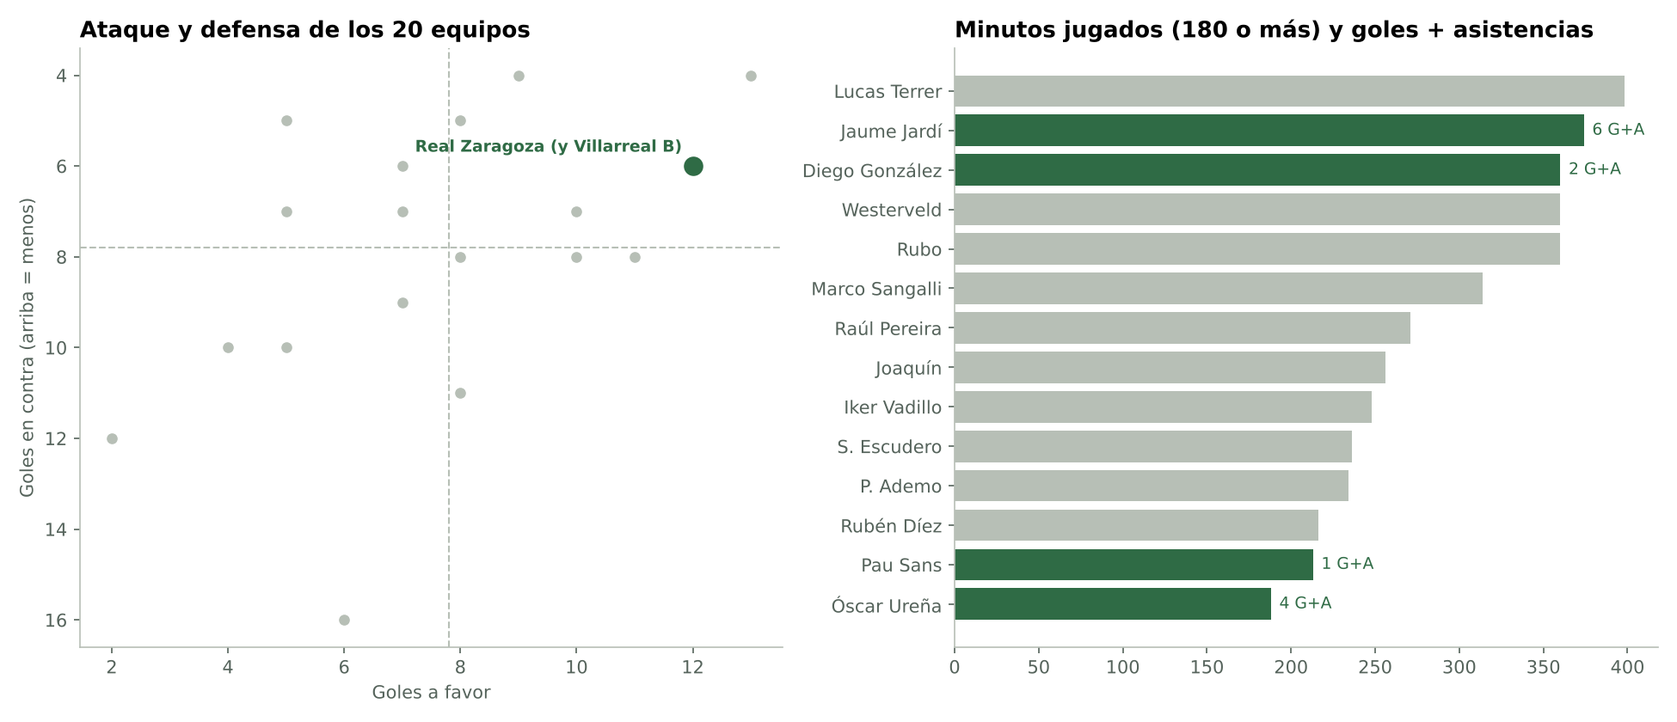
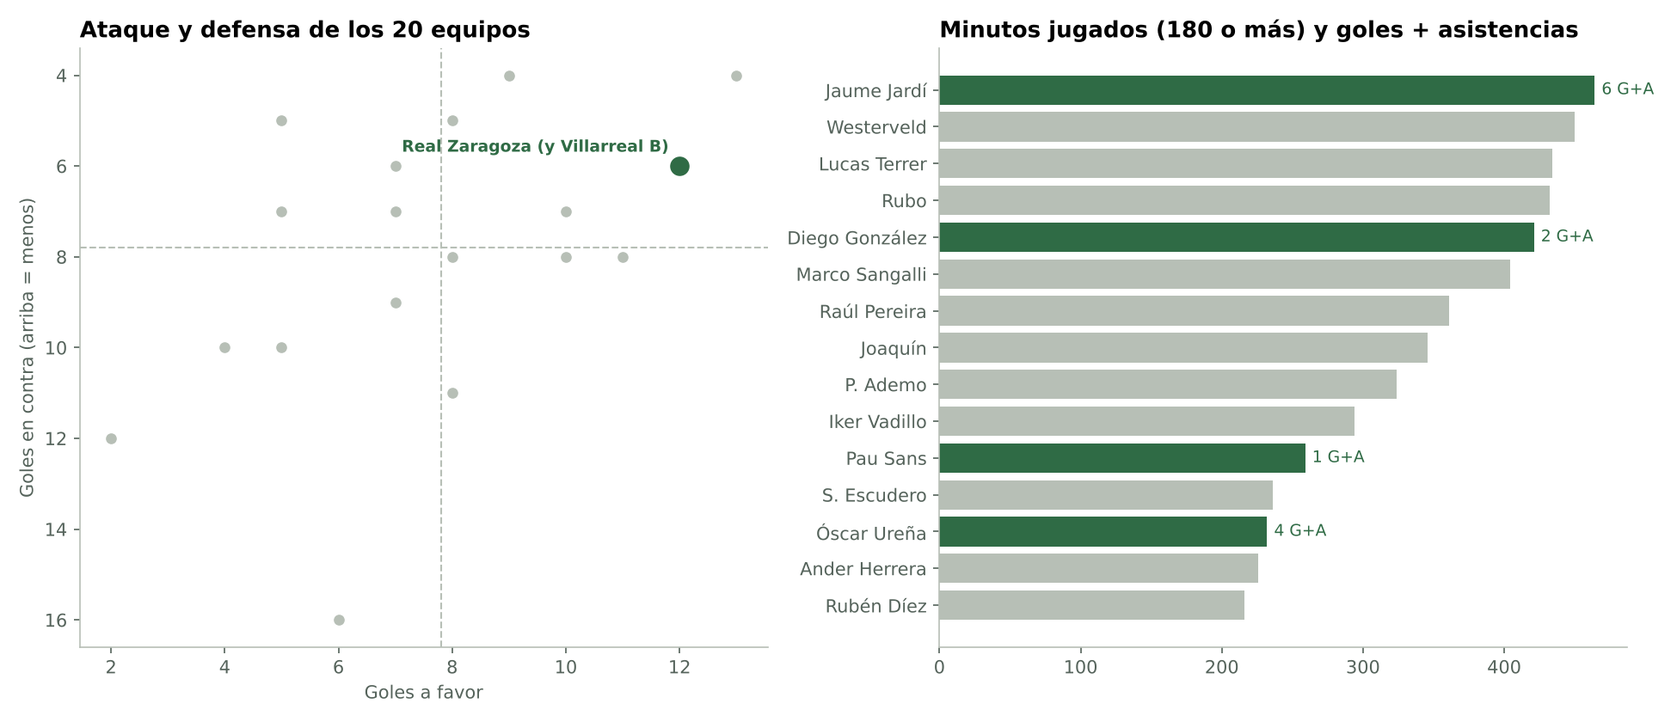
Añade la alineación de la jornada 3 (Torremolinos)

diff --git a/proyectos/real-zaragoza/informe-completo.html b/proyectos/real-zaragoza/informe-completo.html
@@ -52,7 +52,7 @@
 
 <p><strong>Más goles después del descanso.</strong> Nueve de los doce goles a favor llegan en la segunda parte, lo que encaja con lo anterior.</p>
 
-<p><strong>Jardí y Ureña.</strong> Jaume Jardí participa en seis de los doce goles (tres goles y tres asistencias). Óscar Ureña suma tres goles y una asistencia en 188 minutos con alineación conocida: una participación cada 47 minutos, la mejor relación de la plantilla.</p>
+<p><strong>Jardí y Ureña.</strong> Jaume Jardí participa en seis de los doce goles (tres goles y tres asistencias). Óscar Ureña suma tres goles y una asistencia en 232 minutos: una participación cada 58 minutos, la mejor relación de la plantilla.</p>
 
 <p><strong>Tira mucho más que sus rivales.</strong> 110 tiros frente a 47 en los seis partidos, el 70 % del total. El caso más claro es Tarragona: 33 tiros contra 10 y un 75 % de posesión, y aun así perdió 2-0.</p>
 
@@ -84,8 +84,8 @@
     <div class="tarjeta tabla"><table><thead><tr><th>J</th><th>Rival</th><th>Min.</th><th>Goleador</th><th>Asistencia</th><th>Rol</th><th>Penalti</th><th>P. p.</th></tr></thead><tbody><tr><td>2</td><td>Antequera CF</td><td>90+1</td><td>Edu Espiau</td><td>—</td><td>Suplente</td><td>—</td><td>—</td></tr><tr><td>3</td><td>Juventud Torremolinos CF</td><td>35</td><td>Javi Cuenca</td><td>—</td><td>—</td><td>—</td><td>Sí</td></tr><tr><td>3</td><td>Juventud Torremolinos CF</td><td>38</td><td>Diego González</td><td>Jaume Jardí</td><td>Titular</td><td>—</td><td>—</td></tr><tr><td>3</td><td>Juventud Torremolinos CF</td><td>65</td><td>Jaume Jardí</td><td>—</td><td>Titular</td><td>—</td><td>—</td></tr><tr><td>3</td><td>Juventud Torremolinos CF</td><td>81</td><td>Yussif Saidu</td><td>Jaume Jardí</td><td>Suplente</td><td>—</td><td>—</td></tr><tr><td>4</td><td>FC Cartagena</td><td>51</td><td>Jaume Jardí</td><td>Óscar Ureña</td><td>Titular</td><td>—</td><td>—</td></tr><tr><td>5</td><td>UD Ibiza</td><td>59</td><td>Óscar Ureña</td><td>Edu Espiau</td><td>Suplente</td><td>—</td><td>—</td></tr><tr><td>5</td><td>UD Ibiza</td><td>62</td><td>Óscar Ureña</td><td>—</td><td>Suplente</td><td>—</td><td>—</td></tr><tr><td>6</td><td>CD Teruel</td><td>45+7</td><td>Óscar Ureña</td><td>—</td><td>Titular</td><td>—</td><td>—</td></tr><tr><td>6</td><td>CD Teruel</td><td>47</td><td>Edu Espiau</td><td>Diego González</td><td>Titular</td><td>—</td><td>—</td></tr><tr><td>6</td><td>CD Teruel</td><td>77</td><td>Pau Sans</td><td>Jaume Jardí</td><td>Suplente</td><td>—</td><td>—</td></tr><tr><td>6</td><td>CD Teruel</td><td>85</td><td>Jaume Jardí</td><td>Hugo Pinilla</td><td>Titular</td><td>—</td><td>—</td></tr></tbody></table></div>
     <p class="nota">«Suplente» quiere decir que el goleador había entrado desde el banquillo. Las asistencias son las que recoge futboltotal, que no las apunta todas.</p>
     <h2>Minutos de la plantilla</h2>
-    <div class="tarjeta tabla"><table><thead><tr><th>Jugador</th><th class="n">PJ</th><th class="n">Titular</th><th class="n">Minutos</th><th class="n">Goles</th><th class="n">Asist.</th><th class="n">G+A por 90</th></tr></thead><tbody><tr><td>Lucas Terrer</td><td class="n">5</td><td class="n">5</td><td class="n">398</td><td class="n">0</td><td class="n">0</td><td class="n">0</td></tr><tr><td>Jaume Jardí</td><td class="n">5</td><td class="n">4</td><td class="n">374</td><td class="n">3</td><td class="n">3</td><td class="n">0,72</td></tr><tr><td>Diego González</td><td class="n">4</td><td class="n">4</td><td class="n">360</td><td class="n">1</td><td class="n">1</td><td class="n">0,25</td></tr><tr><td>Rubo</td><td class="n">4</td><td class="n">4</td><td class="n">360</td><td class="n">0</td><td class="n">0</td><td class="n">0</td></tr><tr><td>Westerveld</td><td class="n">4</td><td class="n">4</td><td class="n">360</td><td class="n">0</td><td class="n">0</td><td class="n">0</td></tr><tr><td>Marco Sangalli</td><td class="n">4</td><td class="n">3</td><td class="n">314</td><td class="n">0</td><td class="n">0</td><td class="n">0</td></tr><tr><td>Raúl Pereira</td><td class="n">5</td><td class="n">2</td><td class="n">271</td><td class="n">0</td><td class="n">0</td><td class="n">0</td></tr><tr><td>Joaquín</td><td class="n">4</td><td class="n">2</td><td class="n">256</td><td class="n">0</td><td class="n">0</td><td class="n">0</td></tr><tr><td>Iker Vadillo</td><td class="n">4</td><td class="n">3</td><td class="n">248</td><td class="n">0</td><td class="n">0</td><td class="n">0</td></tr><tr><td>S. Escudero</td><td class="n">5</td><td class="n">4</td><td class="n">236</td><td class="n">0</td><td class="n">0</td><td class="n">0</td></tr><tr><td>P. Ademo</td><td class="n">4</td><td class="n">3</td><td class="n">234</td><td class="n">0</td><td class="n">0</td><td class="n">0</td></tr><tr><td>Rubén Díez</td><td class="n">4</td><td class="n">3</td><td class="n">216</td><td class="n">0</td><td class="n">0</td><td class="n">0</td></tr><tr><td>Pau Sans</td><td class="n">4</td><td class="n">2</td><td class="n">213</td><td class="n">1</td><td class="n">0</td><td class="n">0,42</td></tr><tr><td>Óscar Ureña</td><td class="n">4</td><td class="n">2</td><td class="n">188</td><td class="n">3</td><td class="n">1</td><td class="n">1,91</td></tr></tbody></table></div>
-    <p class="nota">Jugadores con 180 minutos o más. Los minutos no incluyen los partidos sin alineación publicada; los goles y asistencias son de toda la liga.</p>
+    <div class="tarjeta tabla"><table><thead><tr><th>Jugador</th><th class="n">PJ</th><th class="n">Titular</th><th class="n">Minutos</th><th class="n">Goles</th><th class="n">Asist.</th><th class="n">G+A por 90</th></tr></thead><tbody><tr><td>Jaume Jardí</td><td class="n">6</td><td class="n">5</td><td class="n">464</td><td class="n">3</td><td class="n">3</td><td class="n">1,16</td></tr><tr><td>Westerveld</td><td class="n">5</td><td class="n">5</td><td class="n">450</td><td class="n">0</td><td class="n">0</td><td class="n">0</td></tr><tr><td>Lucas Terrer</td><td class="n">6</td><td class="n">5</td><td class="n">434</td><td class="n">0</td><td class="n">0</td><td class="n">0</td></tr><tr><td>Rubo</td><td class="n">5</td><td class="n">5</td><td class="n">432</td><td class="n">0</td><td class="n">0</td><td class="n">0</td></tr><tr><td>Diego González</td><td class="n">5</td><td class="n">5</td><td class="n">421</td><td class="n">1</td><td class="n">1</td><td class="n">0,43</td></tr><tr><td>Marco Sangalli</td><td class="n">5</td><td class="n">4</td><td class="n">404</td><td class="n">0</td><td class="n">0</td><td class="n">0</td></tr><tr><td>Raúl Pereira</td><td class="n">6</td><td class="n">3</td><td class="n">361</td><td class="n">0</td><td class="n">0</td><td class="n">0</td></tr><tr><td>Joaquín</td><td class="n">5</td><td class="n">3</td><td class="n">346</td><td class="n">0</td><td class="n">0</td><td class="n">0</td></tr><tr><td>P. Ademo</td><td class="n">5</td><td class="n">4</td><td class="n">324</td><td class="n">0</td><td class="n">0</td><td class="n">0</td></tr><tr><td>Iker Vadillo</td><td class="n">5</td><td class="n">4</td><td class="n">294</td><td class="n">0</td><td class="n">0</td><td class="n">0</td></tr><tr><td>Pau Sans</td><td class="n">5</td><td class="n">3</td><td class="n">259</td><td class="n">1</td><td class="n">0</td><td class="n">0,35</td></tr><tr><td>S. Escudero</td><td class="n">5</td><td class="n">4</td><td class="n">236</td><td class="n">0</td><td class="n">0</td><td class="n">0</td></tr><tr><td>Óscar Ureña</td><td class="n">5</td><td class="n">2</td><td class="n">232</td><td class="n">3</td><td class="n">1</td><td class="n">1,55</td></tr><tr><td>Ander Herrera</td><td class="n">3</td><td class="n">3</td><td class="n">226</td><td class="n">0</td><td class="n">0</td><td class="n">0</td></tr><tr><td>Rubén Díez</td><td class="n">4</td><td class="n">3</td><td class="n">216</td><td class="n">0</td><td class="n">0</td><td class="n">0</td></tr></tbody></table></div>
+    <p class="nota">Jugadores con 180 minutos o más. Los minutos no cuentan el descuento: un titular que juega todo el partido suma 90.</p>
     <h2>Casa y fuera</h2>
     <div class="tarjeta tabla"><table><thead><tr><th>Sede</th><th class="n">PJ</th><th class="n">Puntos</th><th class="n">GF</th><th class="n">GC</th><th class="n">Porterías a cero</th><th class="n">Puntos por partido</th></tr></thead><tbody><tr><td>Casa</td><td class="n">3</td><td class="n">9</td><td class="n">6</td><td class="n">1</td><td class="n">2</td><td class="n">3</td></tr><tr><td>Fuera</td><td class="n">3</td><td class="n">6</td><td class="n">6</td><td class="n">5</td><td class="n">1</td><td class="n">2</td></tr></tbody></table></div>
     <h2>Clasificación tras la jornada 6</h2>
@@ -96,7 +96,7 @@
     <p class="etiqueta">Calidad de los datos</p>
     <h2>Incidencias y decisiones</h2>
     <p class="lectura">Cuando dos fuentes no coinciden, lo apunto aquí junto con el dato que me quedo. Un dato que no encuentro queda vacío: nunca lo convierto en un cero.</p>
-    <div class="tarjeta tabla"><table><thead><tr><th>Partido</th><th>Dato</th><th>Problema</th><th>Qué hago</th></tr></thead><tbody><tr><td>General</td><td>Cobertura</td><td>No hay datos públicos fiables de coordenadas, tracking, distancias, velocidades ni PPDA</td><td>No se estiman ni se rellenan</td></tr><tr><td>General</td><td>Nombres</td><td>Cada fuente escribe los nombres a su manera: iniciales, apodos («Jamelli» es Rubén Díez y «J. Delgado» es Joaquín)</td><td>Uso siempre el nombre de la web del club</td></tr><tr><td>General</td><td>Asistencias</td><td>Solo futboltotal las recoge y faltan en las jornadas 1 y 2 y en algún gol suelto</td><td>Las trato como un mínimo, no como el total real</td></tr><tr><td>General</td><td>Agregados FootyStats</td><td>Sus tablas y su texto no coinciden en tiros ni en xG</td><td>No los uso</td></tr><tr><td>J1</td><td>Minuto gol Carlos Segura</td><td>87 en FotMob; 86 en futboltotal y FootyStats</td><td>Dejo el 87; no cambia el tramo</td></tr><tr><td>J1</td><td>Tiros</td><td>El club da 33 tiros, pero 9 a puerta y 16 fuera suman 25 y no publica los bloqueados</td><td>Uso el total con aviso y no calculo la precisión de tiro de ese partido</td></tr><tr><td>J1</td><td>Minutos de los cambios</td><td>Club 55/71/82; futboltotal 56/72/82-83</td><td>Uso los minutos del club</td></tr><tr><td>J2</td><td>Fecha</td><td>La URL de futboltotal dice 06/09 y la ficha dice 5/09 a las 21:00</td><td>Dejo el 5/09 (FotMob y la propia ficha)</td></tr><tr><td>J2</td><td>Pases</td><td>BeSoccer 510/256 y 452/181 completados; web del club 510/257 y 453/183</td><td>Cada cálculo sale de una sola fuente</td></tr><tr><td>J2</td><td>Paradas</td><td>Una parada con dos tiros a puerta del rival y ningún gol encajado</td><td>No uso las paradas</td></tr><tr><td>J2</td><td>Penalti fallado</td><td>El Antequera falla un penalti en el 71 (futboltotal)</td><td>Lo anoto como contexto</td></tr><tr><td>J3</td><td>Alineación</td><td>No he encontrado la alineación de Torremolinos en ninguna fuente fiable</td><td>La jornada 3 no entra en los minutos</td></tr><tr><td>J3</td><td>Minuto gol en propia puerta</td><td>35 en FotMob y en el club; 36 en FootyStats</td><td>Dejo el 35</td></tr><tr><td>J3</td><td>Tiros</td><td>El club da 16 tiros, pero 7 a puerta y 3 fuera no llegan al total</td><td>No deduzco los bloqueados</td></tr><tr><td>J4</td><td>Estadísticas avanzadas</td><td>AupaZaragoza pone 1-0 al descanso con el gol en el 51, y no dice qué modelo de xG usa</td><td>Las guardo aparte y no saco conclusiones del xG</td></tr><tr><td>J4</td><td>Expulsión rival</td><td>49 en AupaZaragoza; 50 en FotMob</td><td>No relaciono la expulsión con el gol del 51</td></tr><tr><td>J5</td><td>Fecha</td><td>La URL de futboltotal dice 27/09 y la ficha dice 25/09</td><td>Dejo el 25/09 (FotMob y la propia ficha)</td></tr><tr><td>J5</td><td>Minuto primer gol</td><td>58 en futboltotal; 58 o 59 en BeSoccer; 59 en FotMob</td><td>Dejo el 59</td></tr><tr><td>J5</td><td>Alineación</td><td>La web del club no publica la ficha; uso BeSoccer, que cuadra con los cambios de futboltotal</td><td>La doy por buena con dos fuentes coherentes</td></tr><tr><td>J6</td><td>Minuto gol Ureña</td><td>La ficha del club pone 52; FotMob, futboltotal y el 1-1 al descanso dicen 45+7</td><td>Dejo el 45+7</td></tr><tr><td>J6</td><td>Tiros a puerta</td><td>BeSoccer 7 (cuadra: 7 + 9 fuera + 1 bloqueado = 17); club 9</td><td>Uso BeSoccer</td></tr><tr><td>J6</td><td>Paradas</td><td>1 y 5 no cuadran con los tiros a puerta (7 y 3) ni con el 4-1</td><td>No uso las paradas</td></tr><tr><td>J6</td><td>Minuto gol Pau Sans</td><td>77 en FotMob; 76 en la crónica de radio</td><td>Dejo el 77</td></tr></tbody></table></div>
+    <div class="tarjeta tabla"><table><thead><tr><th>Partido</th><th>Dato</th><th>Problema</th><th>Qué hago</th></tr></thead><tbody><tr><td>General</td><td>Cobertura</td><td>No hay datos públicos fiables de coordenadas, tracking, distancias, velocidades ni PPDA</td><td>No se estiman ni se rellenan</td></tr><tr><td>General</td><td>Nombres</td><td>Cada fuente escribe los nombres a su manera: iniciales, apodos («Jamelli» es Rubén Díez y «J. Delgado» es Joaquín)</td><td>Uso siempre el nombre de la web del club</td></tr><tr><td>General</td><td>Asistencias</td><td>Solo futboltotal las recoge y faltan en las jornadas 1 y 2 y en algún gol suelto</td><td>Las trato como un mínimo, no como el total real</td></tr><tr><td>General</td><td>Agregados FootyStats</td><td>Sus tablas y su texto no coinciden en tiros ni en xG</td><td>No los uso</td></tr><tr><td>J1</td><td>Minuto gol Carlos Segura</td><td>87 en FotMob; 86 en futboltotal y FootyStats</td><td>Dejo el 87; no cambia el tramo</td></tr><tr><td>J1</td><td>Tiros</td><td>El club da 33 tiros, pero 9 a puerta y 16 fuera suman 25 y no publica los bloqueados</td><td>Uso el total con aviso y no calculo la precisión de tiro de ese partido</td></tr><tr><td>J1</td><td>Minutos de los cambios</td><td>Club 55/71/82; futboltotal 56/72/82-83</td><td>Uso los minutos del club</td></tr><tr><td>J2</td><td>Fecha</td><td>La URL de futboltotal dice 06/09 y la ficha dice 5/09 a las 21:00</td><td>Dejo el 5/09 (FotMob y la propia ficha)</td></tr><tr><td>J2</td><td>Pases</td><td>BeSoccer 510/256 y 452/181 completados; web del club 510/257 y 453/183</td><td>Cada cálculo sale de una sola fuente</td></tr><tr><td>J2</td><td>Paradas</td><td>Una parada con dos tiros a puerta del rival y ningún gol encajado</td><td>No uso las paradas</td></tr><tr><td>J2</td><td>Penalti fallado</td><td>El Antequera falla un penalti en el 71 (futboltotal)</td><td>Lo anoto como contexto</td></tr><tr><td>J3</td><td>Alineación</td><td>La web del club no publica la ficha. Sport Aragón publica el once; sus cinco cambios coinciden con futboltotal y LaLiga. «Rubén Iranzo» es Rubo</td><td>La doy por buena con fuentes coherentes</td></tr><tr><td>J3</td><td>Minuto gol en propia puerta</td><td>35 en FotMob y en el club; 36 en FootyStats</td><td>Dejo el 35</td></tr><tr><td>J3</td><td>Tiros</td><td>El club da 16 tiros, pero 7 a puerta y 3 fuera no llegan al total</td><td>No deduzco los bloqueados</td></tr><tr><td>J4</td><td>Estadísticas avanzadas</td><td>AupaZaragoza pone 1-0 al descanso con el gol en el 51, y no dice qué modelo de xG usa</td><td>Las guardo aparte y no saco conclusiones del xG</td></tr><tr><td>J4</td><td>Expulsión rival</td><td>49 en AupaZaragoza; 50 en FotMob</td><td>No relaciono la expulsión con el gol del 51</td></tr><tr><td>J5</td><td>Fecha</td><td>La URL de futboltotal dice 27/09 y la ficha dice 25/09</td><td>Dejo el 25/09 (FotMob y la propia ficha)</td></tr><tr><td>J5</td><td>Minuto primer gol</td><td>58 en futboltotal; 58 o 59 en BeSoccer; 59 en FotMob</td><td>Dejo el 59</td></tr><tr><td>J5</td><td>Alineación</td><td>La web del club no publica la ficha; uso BeSoccer, que cuadra con los cambios de futboltotal</td><td>La doy por buena con dos fuentes coherentes</td></tr><tr><td>J6</td><td>Minuto gol Ureña</td><td>La ficha del club pone 52; FotMob, futboltotal y el 1-1 al descanso dicen 45+7</td><td>Dejo el 45+7</td></tr><tr><td>J6</td><td>Tiros a puerta</td><td>BeSoccer 7 (cuadra: 7 + 9 fuera + 1 bloqueado = 17); club 9</td><td>Uso BeSoccer</td></tr><tr><td>J6</td><td>Paradas</td><td>1 y 5 no cuadran con los tiros a puerta (7 y 3) ni con el 4-1</td><td>No uso las paradas</td></tr><tr><td>J6</td><td>Minuto gol Pau Sans</td><td>77 en FotMob; 76 en la crónica de radio</td><td>Dejo el 77</td></tr></tbody></table></div>
   </section>
 
   <section class="seccion lectura">
@@ -108,7 +108,7 @@
       <a class="boton" href="index.html">Volver al panel</a>
     </div>
     <h2>Fuentes</h2>
-    <ul class="fuentes"><li><a href="https://www.fotmob.com/es/matches/real-zaragoza-vs-gimnastic/2byw33" rel="noopener" target="_blank">https://www.fotmob.com/es/matches/real-zaragoza-vs-gimnastic/2byw33</a></li><li><a href="https://www.fotmob.com/es/matches/real-zaragoza-vs-antequera/6nntpao" rel="noopener" target="_blank">https://www.fotmob.com/es/matches/real-zaragoza-vs-antequera/6nntpao</a></li><li><a href="https://www.fotmob.com/es/matches/real-zaragoza-vs-juventud-torremolinos-cf/x6r0vf7" rel="noopener" target="_blank">https://www.fotmob.com/es/matches/real-zaragoza-vs-juventud-torremolinos-cf/x6r0vf7</a></li><li><a href="https://www.fotmob.com/es/matches/real-zaragoza-vs-cartagena/2dikzw" rel="noopener" target="_blank">https://www.fotmob.com/es/matches/real-zaragoza-vs-cartagena/2dikzw</a></li><li><a href="https://www.fotmob.com/es/matches/real-zaragoza-vs-ud-ibiza/8628l3cc" rel="noopener" target="_blank">https://www.fotmob.com/es/matches/real-zaragoza-vs-ud-ibiza/8628l3cc</a></li><li><a href="https://www.fotmob.com/es/matches/real-zaragoza-vs-cd-teruel/91rtz0x" rel="noopener" target="_blank">https://www.fotmob.com/es/matches/real-zaragoza-vs-cd-teruel/91rtz0x</a></li><li><a href="https://www.realzaragoza.com/partidos/temporada-2026-2027-primera-federacion-1-gimnastic-de-tarragona-vs-real-zaragoza-3775" rel="noopener" target="_blank">https://www.realzaragoza.com/partidos/temporada-2026-2027-primera-federacion-1-gimnastic-de-tarragona-vs-real-zaragoza-3775</a></li><li><a href="https://www.realzaragoza.com/partidos/temporada-2026-2027-primera-federacion-2-real-zaragoza-vs-antequera-cf-3802" rel="noopener" target="_blank">https://www.realzaragoza.com/partidos/temporada-2026-2027-primera-federacion-2-real-zaragoza-vs-antequera-cf-3802</a></li><li><a href="https://www.realzaragoza.com/partidos/temporada-2026-2027-primera-federacion-4-real-zaragoza-vs-fc-cartagena-3837" rel="noopener" target="_blank">https://www.realzaragoza.com/partidos/temporada-2026-2027-primera-federacion-4-real-zaragoza-vs-fc-cartagena-3837</a></li><li><a href="https://es.besoccer.com/partido/ibiza-eivissa/real-zaragoza/202724147/alineaciones" rel="noopener" target="_blank">https://es.besoccer.com/partido/ibiza-eivissa/real-zaragoza/202724147/alineaciones</a></li><li><a href="https://www.realzaragoza.com/partidos/temporada-2026-2027-primera-federacion-6-real-zaragoza-vs-cd-teruel-3877" rel="noopener" target="_blank">https://www.realzaragoza.com/partidos/temporada-2026-2027-primera-federacion-6-real-zaragoza-vs-cd-teruel-3877</a></li><li><a href="https://futboltotal.futbol/partido/juventud-torremolinos-vs-zaragoza-primera-division-rfef-group-2-2026-09-13" rel="noopener" target="_blank">https://futboltotal.futbol/partido/juventud-torremolinos-vs-zaragoza-primera-division-rfef-group-2-2026-09-13</a></li><li><a href="https://futboltotal.futbol/partido/gimnastic-vs-zaragoza-primera-division-rfef-group-2-2026-08-30" rel="noopener" target="_blank">https://futboltotal.futbol/partido/gimnastic-vs-zaragoza-primera-division-rfef-group-2-2026-08-30</a></li><li><a href="https://futboltotal.futbol/partido/zaragoza-vs-antequera-primera-division-rfef-group-2-2026-09-06" rel="noopener" target="_blank">https://futboltotal.futbol/partido/zaragoza-vs-antequera-primera-division-rfef-group-2-2026-09-06</a></li><li><a href="https://futboltotal.futbol/partido/zaragoza-vs-fc-cartagena-primera-division-rfef-group-2-2026-09-20" rel="noopener" target="_blank">https://futboltotal.futbol/partido/zaragoza-vs-fc-cartagena-primera-division-rfef-group-2-2026-09-20</a></li><li><a href="https://futboltotal.futbol/partido/ibiza-vs-zaragoza-primera-division-rfef-group-2-2026-09-27" rel="noopener" target="_blank">https://futboltotal.futbol/partido/ibiza-vs-zaragoza-primera-division-rfef-group-2-2026-09-27</a></li><li><a href="https://futboltotal.futbol/partido/zaragoza-vs-teruel-primera-division-rfef-grupo-2-2026-10-04" rel="noopener" target="_blank">https://futboltotal.futbol/partido/zaragoza-vs-teruel-primera-division-rfef-grupo-2-2026-10-04</a></li><li><a href="https://www.besoccer.com/match/real-zaragoza/antequera/202724015" rel="noopener" target="_blank">https://www.besoccer.com/match/real-zaragoza/antequera/202724015</a></li><li><a href="https://www.realzaragoza.com/partidos/temporada-2026-2027-primera-federacion-3-juventud-torremolinos-cf-vs-real-zaragoza-3815" rel="noopener" target="_blank">https://www.realzaragoza.com/partidos/temporada-2026-2027-primera-federacion-3-juventud-torremolinos-cf-vs-real-zaragoza-3815</a></li><li><a href="https://es.besoccer.com/partido/ibiza-eivissa/real-zaragoza/202724147" rel="noopener" target="_blank">https://es.besoccer.com/partido/ibiza-eivissa/real-zaragoza/202724147</a></li><li><a href="https://pt.besoccer.com/jogo/real-zaragoza/teruel/202724205" rel="noopener" target="_blank">https://pt.besoccer.com/jogo/real-zaragoza/teruel/202724205</a></li><li><a href="https://www.fotmob.com/es-419/teams/8394/overview" rel="noopener" target="_blank">https://www.fotmob.com/es-419/teams/8394/overview</a></li></ul>
+    <ul class="fuentes"><li><a href="https://www.fotmob.com/es/matches/real-zaragoza-vs-gimnastic/2byw33" rel="noopener" target="_blank">https://www.fotmob.com/es/matches/real-zaragoza-vs-gimnastic/2byw33</a></li><li><a href="https://www.fotmob.com/es/matches/real-zaragoza-vs-antequera/6nntpao" rel="noopener" target="_blank">https://www.fotmob.com/es/matches/real-zaragoza-vs-antequera/6nntpao</a></li><li><a href="https://www.fotmob.com/es/matches/real-zaragoza-vs-juventud-torremolinos-cf/x6r0vf7" rel="noopener" target="_blank">https://www.fotmob.com/es/matches/real-zaragoza-vs-juventud-torremolinos-cf/x6r0vf7</a></li><li><a href="https://www.fotmob.com/es/matches/real-zaragoza-vs-cartagena/2dikzw" rel="noopener" target="_blank">https://www.fotmob.com/es/matches/real-zaragoza-vs-cartagena/2dikzw</a></li><li><a href="https://www.fotmob.com/es/matches/real-zaragoza-vs-ud-ibiza/8628l3cc" rel="noopener" target="_blank">https://www.fotmob.com/es/matches/real-zaragoza-vs-ud-ibiza/8628l3cc</a></li><li><a href="https://www.fotmob.com/es/matches/real-zaragoza-vs-cd-teruel/91rtz0x" rel="noopener" target="_blank">https://www.fotmob.com/es/matches/real-zaragoza-vs-cd-teruel/91rtz0x</a></li><li><a href="https://www.realzaragoza.com/partidos/temporada-2026-2027-primera-federacion-1-gimnastic-de-tarragona-vs-real-zaragoza-3775" rel="noopener" target="_blank">https://www.realzaragoza.com/partidos/temporada-2026-2027-primera-federacion-1-gimnastic-de-tarragona-vs-real-zaragoza-3775</a></li><li><a href="https://www.realzaragoza.com/partidos/temporada-2026-2027-primera-federacion-2-real-zaragoza-vs-antequera-cf-3802" rel="noopener" target="_blank">https://www.realzaragoza.com/partidos/temporada-2026-2027-primera-federacion-2-real-zaragoza-vs-antequera-cf-3802</a></li><li><a href="https://www.sportaragon.com/articulo/real-zaragoza/alineaciones-confirmadas-juventud-torremolinos-real-zaragoza/20260913145919159329.html" rel="noopener" target="_blank">https://www.sportaragon.com/articulo/real-zaragoza/alineaciones-confirmadas-juventud-torremolinos-real-zaragoza/20260913145919159329.html</a></li><li><a href="https://www.realzaragoza.com/partidos/temporada-2026-2027-primera-federacion-4-real-zaragoza-vs-fc-cartagena-3837" rel="noopener" target="_blank">https://www.realzaragoza.com/partidos/temporada-2026-2027-primera-federacion-4-real-zaragoza-vs-fc-cartagena-3837</a></li><li><a href="https://es.besoccer.com/partido/ibiza-eivissa/real-zaragoza/202724147/alineaciones" rel="noopener" target="_blank">https://es.besoccer.com/partido/ibiza-eivissa/real-zaragoza/202724147/alineaciones</a></li><li><a href="https://www.realzaragoza.com/partidos/temporada-2026-2027-primera-federacion-6-real-zaragoza-vs-cd-teruel-3877" rel="noopener" target="_blank">https://www.realzaragoza.com/partidos/temporada-2026-2027-primera-federacion-6-real-zaragoza-vs-cd-teruel-3877</a></li><li><a href="https://futboltotal.futbol/partido/juventud-torremolinos-vs-zaragoza-primera-division-rfef-group-2-2026-09-13" rel="noopener" target="_blank">https://futboltotal.futbol/partido/juventud-torremolinos-vs-zaragoza-primera-division-rfef-group-2-2026-09-13</a></li><li><a href="https://futboltotal.futbol/partido/gimnastic-vs-zaragoza-primera-division-rfef-group-2-2026-08-30" rel="noopener" target="_blank">https://futboltotal.futbol/partido/gimnastic-vs-zaragoza-primera-division-rfef-group-2-2026-08-30</a></li><li><a href="https://futboltotal.futbol/partido/zaragoza-vs-antequera-primera-division-rfef-group-2-2026-09-06" rel="noopener" target="_blank">https://futboltotal.futbol/partido/zaragoza-vs-antequera-primera-division-rfef-group-2-2026-09-06</a></li><li><a href="https://futboltotal.futbol/partido/zaragoza-vs-fc-cartagena-primera-division-rfef-group-2-2026-09-20" rel="noopener" target="_blank">https://futboltotal.futbol/partido/zaragoza-vs-fc-cartagena-primera-division-rfef-group-2-2026-09-20</a></li><li><a href="https://futboltotal.futbol/partido/ibiza-vs-zaragoza-primera-division-rfef-group-2-2026-09-27" rel="noopener" target="_blank">https://futboltotal.futbol/partido/ibiza-vs-zaragoza-primera-division-rfef-group-2-2026-09-27</a></li><li><a href="https://futboltotal.futbol/partido/zaragoza-vs-teruel-primera-division-rfef-grupo-2-2026-10-04" rel="noopener" target="_blank">https://futboltotal.futbol/partido/zaragoza-vs-teruel-primera-division-rfef-grupo-2-2026-10-04</a></li><li><a href="https://www.besoccer.com/match/real-zaragoza/antequera/202724015" rel="noopener" target="_blank">https://www.besoccer.com/match/real-zaragoza/antequera/202724015</a></li><li><a href="https://www.realzaragoza.com/partidos/temporada-2026-2027-primera-federacion-3-juventud-torremolinos-cf-vs-real-zaragoza-3815" rel="noopener" target="_blank">https://www.realzaragoza.com/partidos/temporada-2026-2027-primera-federacion-3-juventud-torremolinos-cf-vs-real-zaragoza-3815</a></li><li><a href="https://es.besoccer.com/partido/ibiza-eivissa/real-zaragoza/202724147" rel="noopener" target="_blank">https://es.besoccer.com/partido/ibiza-eivissa/real-zaragoza/202724147</a></li><li><a href="https://pt.besoccer.com/jogo/real-zaragoza/teruel/202724205" rel="noopener" target="_blank">https://pt.besoccer.com/jogo/real-zaragoza/teruel/202724205</a></li><li><a href="https://www.fotmob.com/es-419/teams/8394/overview" rel="noopener" target="_blank">https://www.fotmob.com/es-419/teams/8394/overview</a></li></ul>
   </section>
 </main>
 

diff --git a/proyectos/real-zaragoza/index.html b/proyectos/real-zaragoza/index.html
@@ -70,7 +70,7 @@
   <section class="seccion" aria-labelledby="t-min">
     <p class="etiqueta">Plantilla</p>
     <h2 id="t-min">Minutos y participación en goles</h2>
-    <p class="nota">Toda la temporada de liga, sin filtro de sede. Falta la alineación de la jornada 3, así que los minutos de ese partido no están incluidos.</p>
+    <p class="nota">Toda la temporada de liga, sin filtro de sede. Minutos sin descuento: un titular que juega el partido entero cuenta 90.</p>
     <div class="tarjeta tabla"><table id="t-jugadores"><thead><tr><th>Jugador</th><th class="n">PJ</th><th class="n">Tit.</th><th>Minutos</th><th class="n">Goles</th><th class="n">Asist.</th></tr></thead><tbody></tbody></table></div>
   </section>
 
@@ -92,7 +92,7 @@
     <p class="etiqueta">Más detalle</p>
     <h2>Informe completo</h2>
     <p>En el informe están las conclusiones con más detalle, todos los gráficos y tablas, y cada diferencia que he encontrado entre fuentes con el dato que me he quedado.</p>
-    <p class="aviso">Límites: seis partidos son una muestra muy pequeña. Las estadísticas de tiros de las jornadas 1 y 3 son parciales y falta la alineación de la jornada 3.</p>
+    <p class="aviso">Límites: seis partidos son una muestra muy pequeña. En las jornadas 1 y 3 el desglose de los tiros no cuadra.</p>
     <div class="enlaces">
       <a class="boton lleno" href="informe-completo.html">Ver el informe completo</a>
       <a class="boton" href="https://github.com/AngelMarqueta/AngelMarqueta.github.io/tree/main/analisis/real-zaragoza" rel="noopener" target="_blank">Código y datos en GitHub</a>

diff --git a/analisis/real-zaragoza/textos/conclusiones.html b/analisis/real-zaragoza/textos/conclusiones.html
@@ -9,7 +9,7 @@
 
 <p><strong>Más goles después del descanso.</strong> Nueve de los doce goles a favor llegan en la segunda parte, lo que encaja con lo anterior.</p>
 
-<p><strong>Jardí y Ureña.</strong> Jaume Jardí participa en seis de los doce goles (tres goles y tres asistencias). Óscar Ureña suma tres goles y una asistencia en 188 minutos con alineación conocida: una participación cada 47 minutos, la mejor relación de la plantilla.</p>
+<p><strong>Jardí y Ureña.</strong> Jaume Jardí participa en seis de los doce goles (tres goles y tres asistencias). Óscar Ureña suma tres goles y una asistencia en 232 minutos: una participación cada 58 minutos, la mejor relación de la plantilla.</p>
 
 <p><strong>Tira mucho más que sus rivales.</strong> 110 tiros frente a 47 en los seis partidos, el 70 % del total. El caso más claro es Tarragona: 33 tiros contra 10 y un 75 % de posesión, y aun así perdió 2-0.</p>
 

diff --git a/analisis/real-zaragoza/codigo/informe.py b/analisis/real-zaragoza/codigo/informe.py
@@ -186,7 +186,7 @@ def generar(ruta, partidos, goles, jugadores, clasificacion, sede, incidencias, 
     <p class="nota">«Suplente» quiere decir que el goleador había entrado desde el banquillo. Las asistencias son las que recoge futboltotal, que no las apunta todas.</p>
     <h2>Minutos de la plantilla</h2>
     {tabla_jugadores_html}
-    <p class="nota">Jugadores con 180 minutos o más. Los minutos no incluyen los partidos sin alineación publicada; los goles y asistencias son de toda la liga.</p>
+    <p class="nota">Jugadores con 180 minutos o más. Los minutos no cuentan el descuento: un titular que juega todo el partido suma 90.</p>
     <h2>Casa y fuera</h2>
     {tabla_sede_html}
     <h2>Clasificación tras la jornada {clasificacion['tras_jornada'].iloc[0]}</h2>

diff --git a/analisis/real-zaragoza/README.md b/analisis/real-zaragoza/README.md
@@ -60,7 +60,7 @@ Los partidos de copa van en los mismos archivos con su competición; no cuentan 
 
 ## Límites
 
-- Los minutos solo se calculan en partidos con alineación publicada (falta la de la jornada 3).
+- Los minutos no cuentan el descuento: un titular que juega todo el partido suma 90.
 - Las asistencias salen de una sola fuente y no están todas.
 - No hay datos públicos fiables de eventos con coordenadas, tracking ni presión.
 
